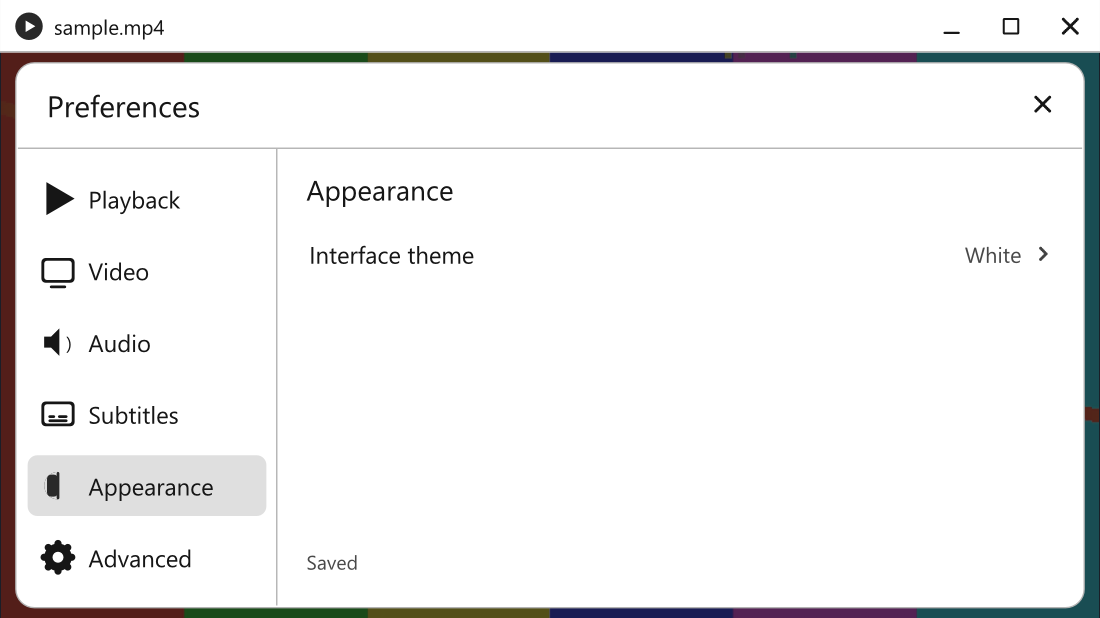
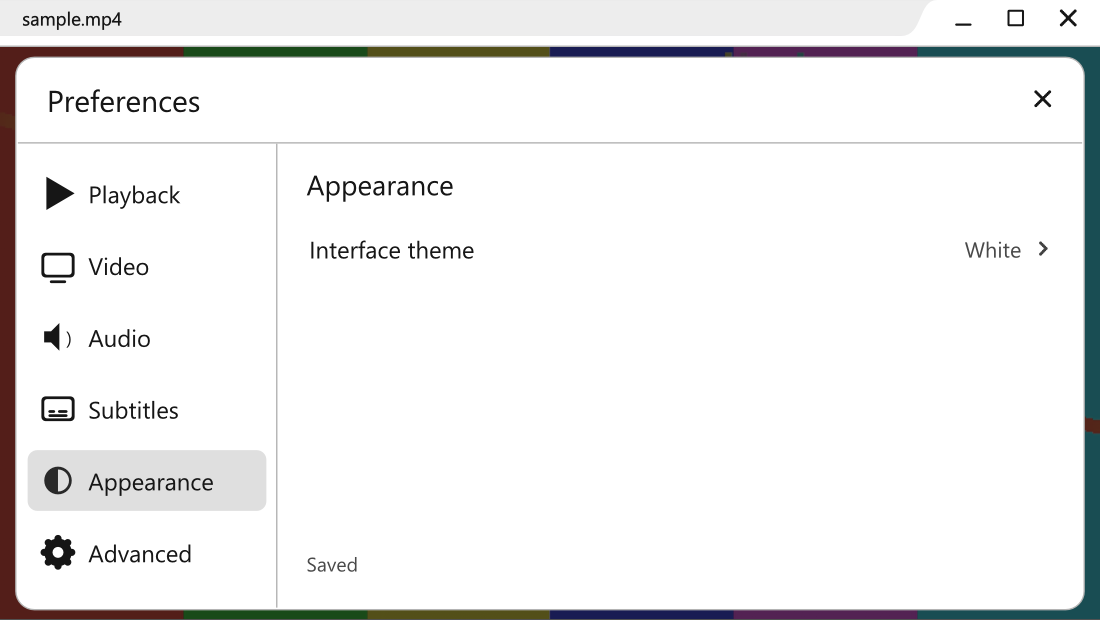
Prepare QuickMPV 1.0.0

diff --git a/README.md b/README.md
@@ -8,11 +8,15 @@ QuickMPV is a Windows front end for [mpv](https://mpv.io/) with a compact playba
 
 ![QuickMPV playback menu with speed, audio track, and subtitle controls](docs/screenshots/playback-menu.png)
 
+![QuickMPV Video preferences with separate RTX upscaling, RTX HDR, and display output controls](docs/screenshots/video-preferences.png)
+
 ![QuickMPV Appearance preferences with the White theme selected](docs/screenshots/appearance-preferences.png)
 
 ## Install
 
-Build `QuickMPV-Shareable-Setup.exe` using the steps below, then run it. It installs for your Windows account and adds a Start menu shortcut. On first launch, QuickMPV asks before downloading the mpv engine from shinchiro's Windows builds and checks the download against GitHub's published SHA-256 digest. Windows 10 or 11 on x64 is required. [mpv Windows builds](https://github.com/shinchiro/mpv-winbuild-cmake/releases)
+Download and run the Windows x64 installer. It installs for your Windows account and adds a Start menu shortcut. Windows 10 or 11 on x64 is required. [Download QuickMPV](https://github.com/technicallyalex/QuickMPV/releases/latest)
+
+On first launch, QuickMPV asks before downloading the mpv engine from shinchiro's Windows builds and checks the download against GitHub's published SHA-256 digest. [mpv Windows builds](https://github.com/shinchiro/mpv-winbuild-cmake/releases)
 
 Open a file with **Ctrl+O** or drag it into the window. Open **Preferences** with **Ctrl+,**. Use **Preferences → Advanced → Check for MPV updates** to check for a newer engine. For more controls, see [the player guide](portable/README.txt).
 
